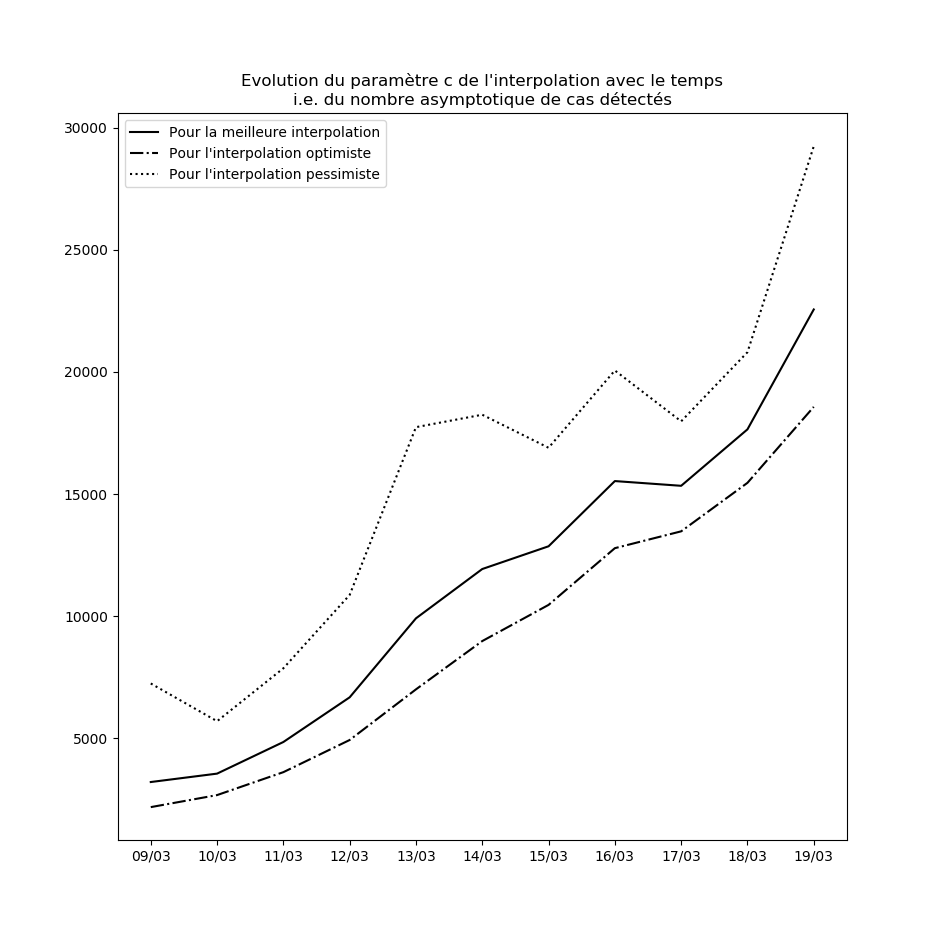
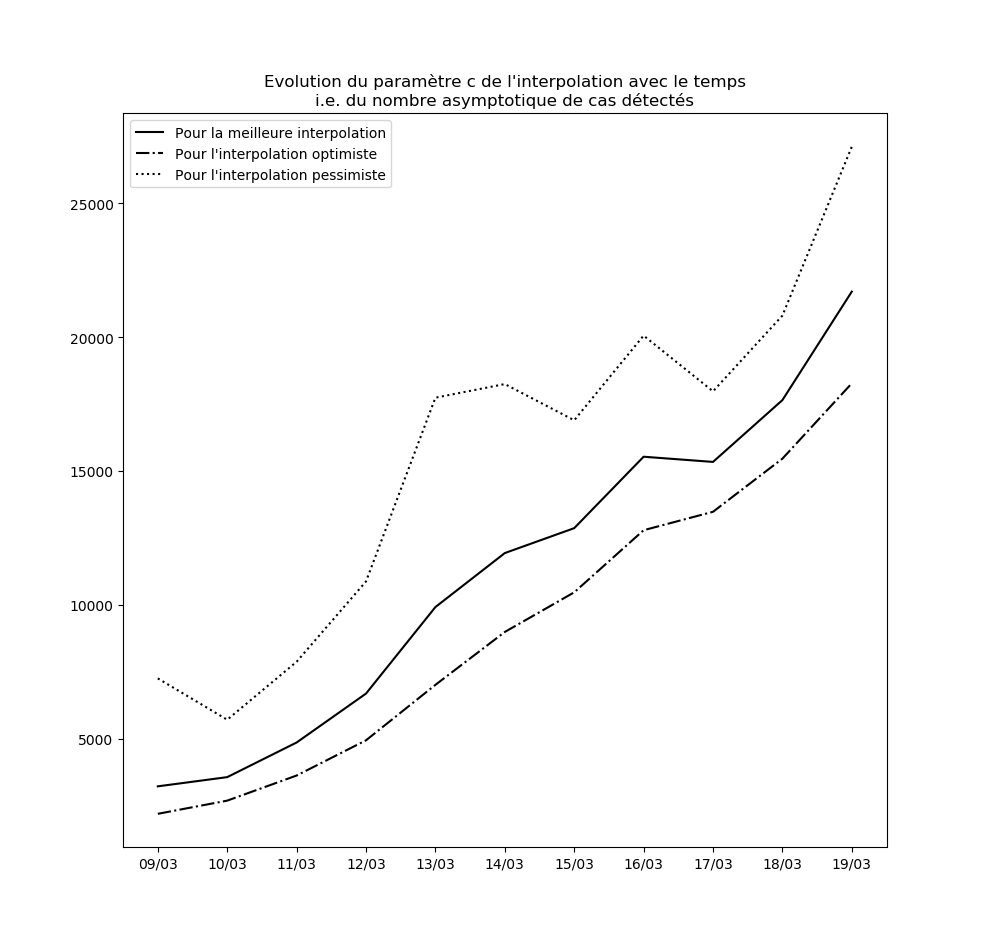
Cours-20032020

diff --git a/_posts/2020-03-15-covid19.md b/_posts/2020-03-15-covid19.md
@@ -13,7 +13,7 @@ slug: covid2
 niveau: Société
 ---
 
-[(Mise-à-jour le 19 mars au soir)](#mise-à-jour-du-19-mars-au-soir)
+[(Mise-à-jour le 20 mars au soir)](#mise-à-jour-du-20-mars-au-soir)
 
 Cet article fait suite à mon [premier article](/2020-03-07-covid1/) où je présentais différentes interpolations possibles du nombre de malades testés positifs au CoViD-19.
 
@@ -214,3 +214,13 @@ Déprimant
 ![CoViD-19, évolution du nombre de cas](/img/Cov2003sinf.png)
 
 ![CoViD-19 sigmoïdale, évolution du nombre de cas](/img/Cov2003se.png)
+
+# Mise-à-jour du 20 mars au soir
+
+Sans commentaire
+
+![CoViD-19, évolution du nombre de cas](/img/Cov2103sc.png) ![CoViD-19, évolution du nombre de cas](/img/Cov2103sasymp.png)
+
+![CoViD-19, évolution du nombre de cas](/img/Cov2103sinf.png)
+
+![CoViD-19 sigmoïdale, évolution du nombre de cas](/img/Cov2103se.png)
